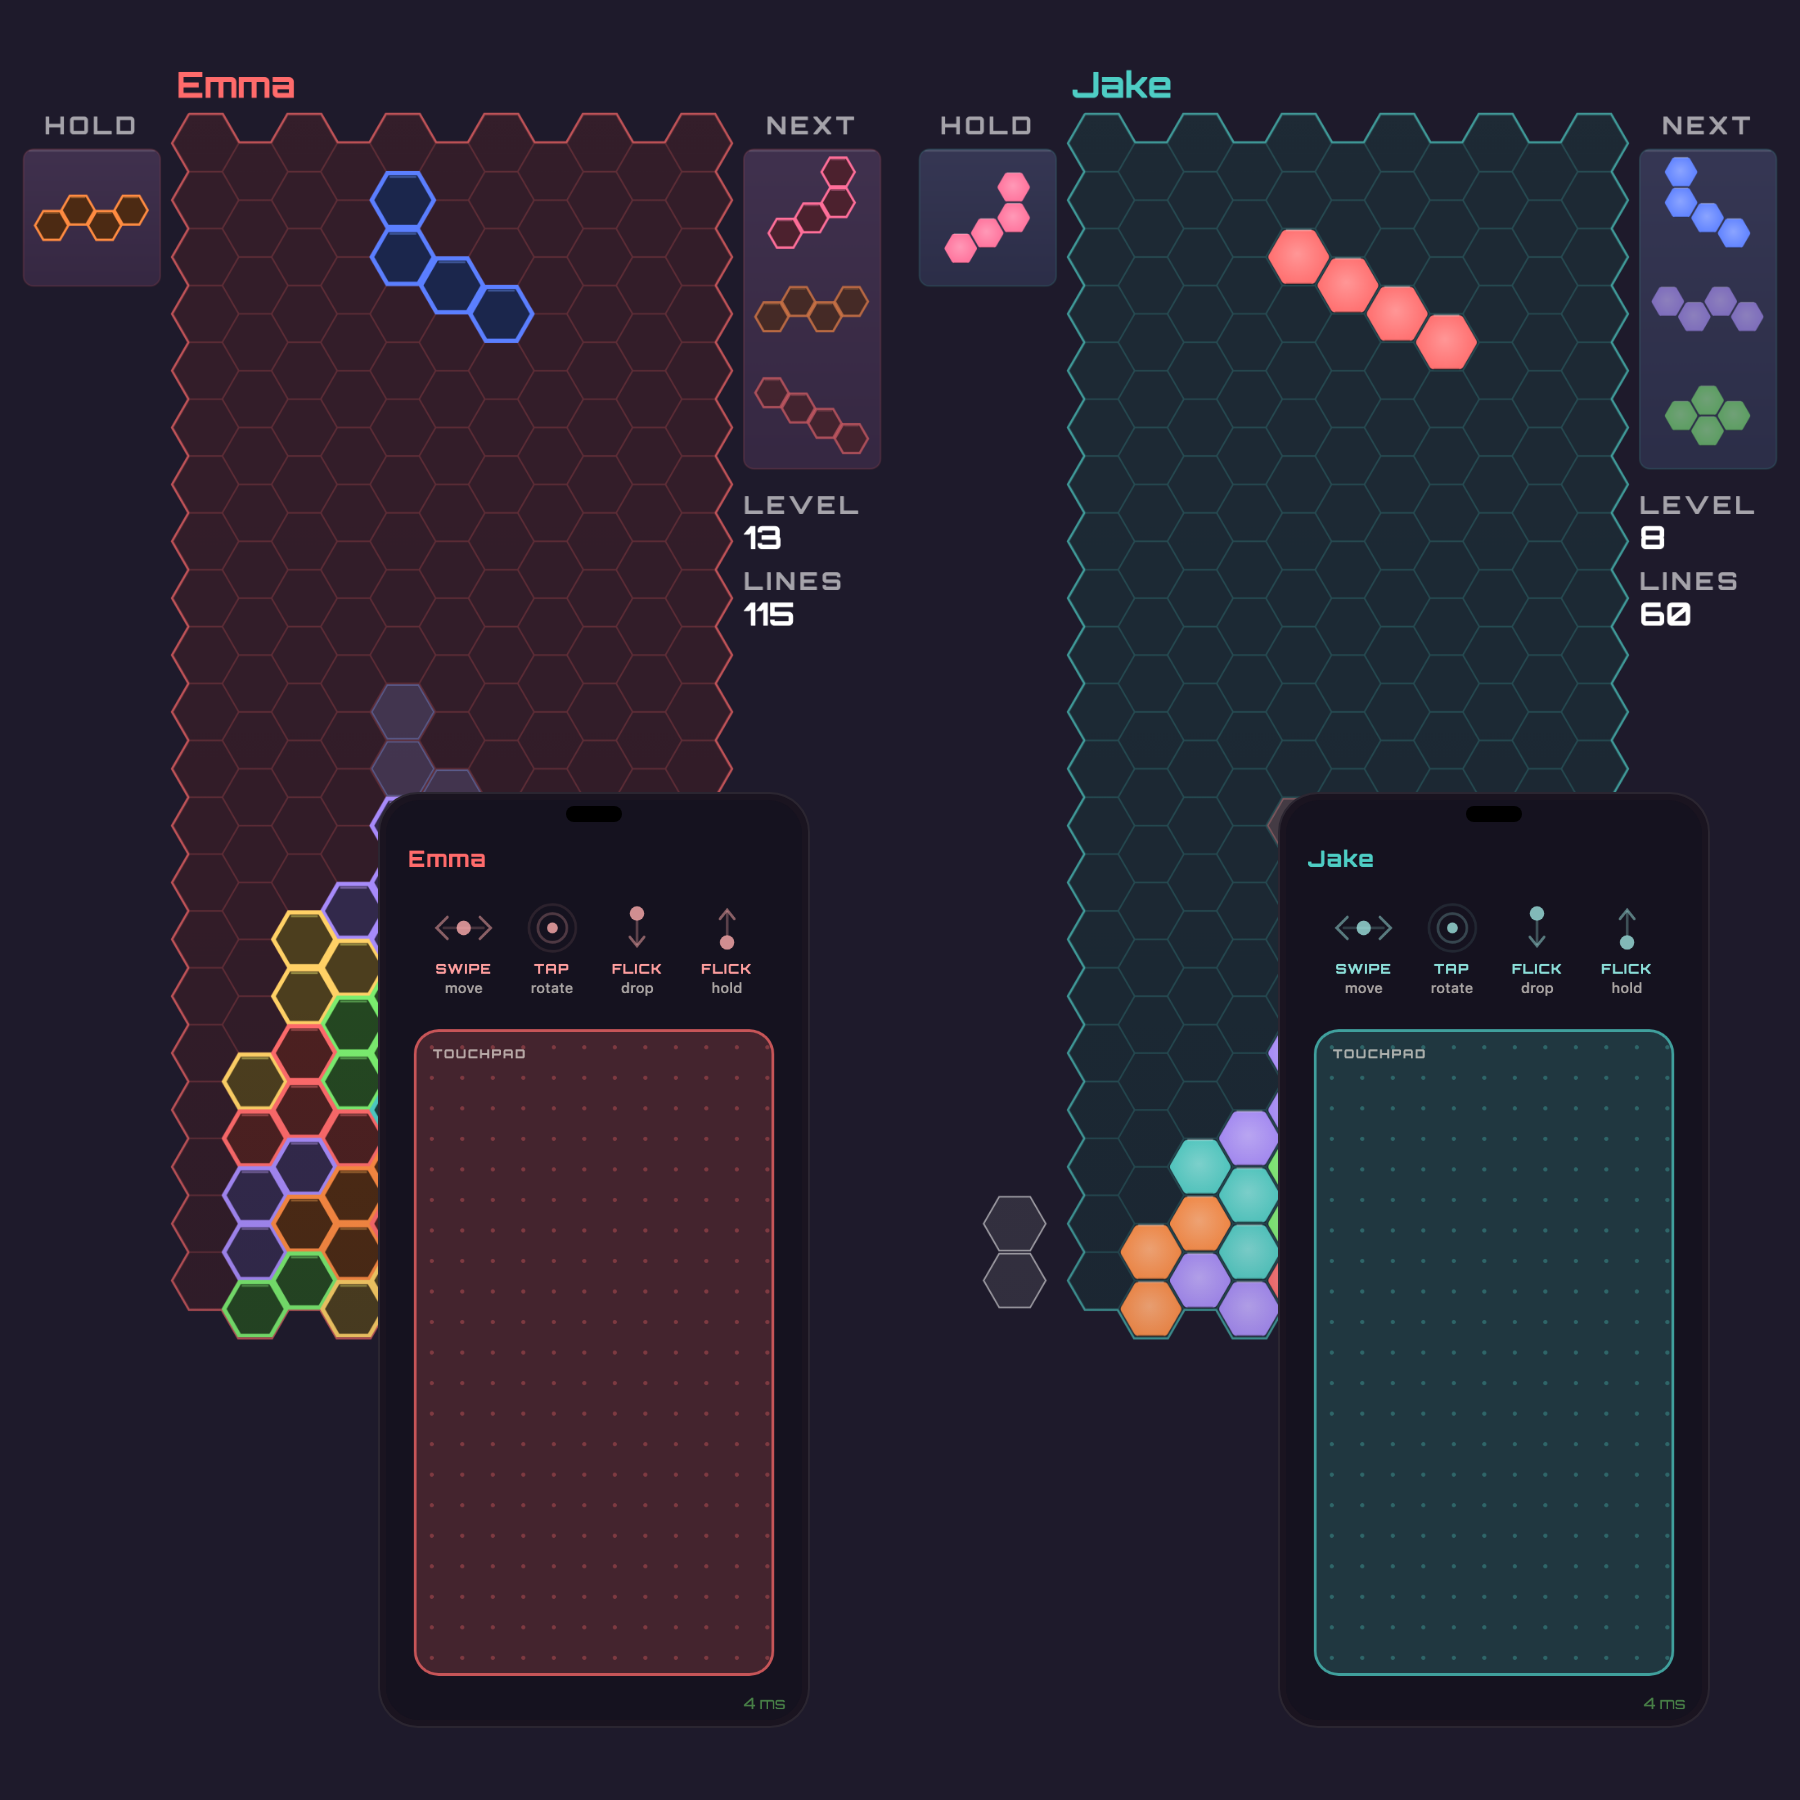
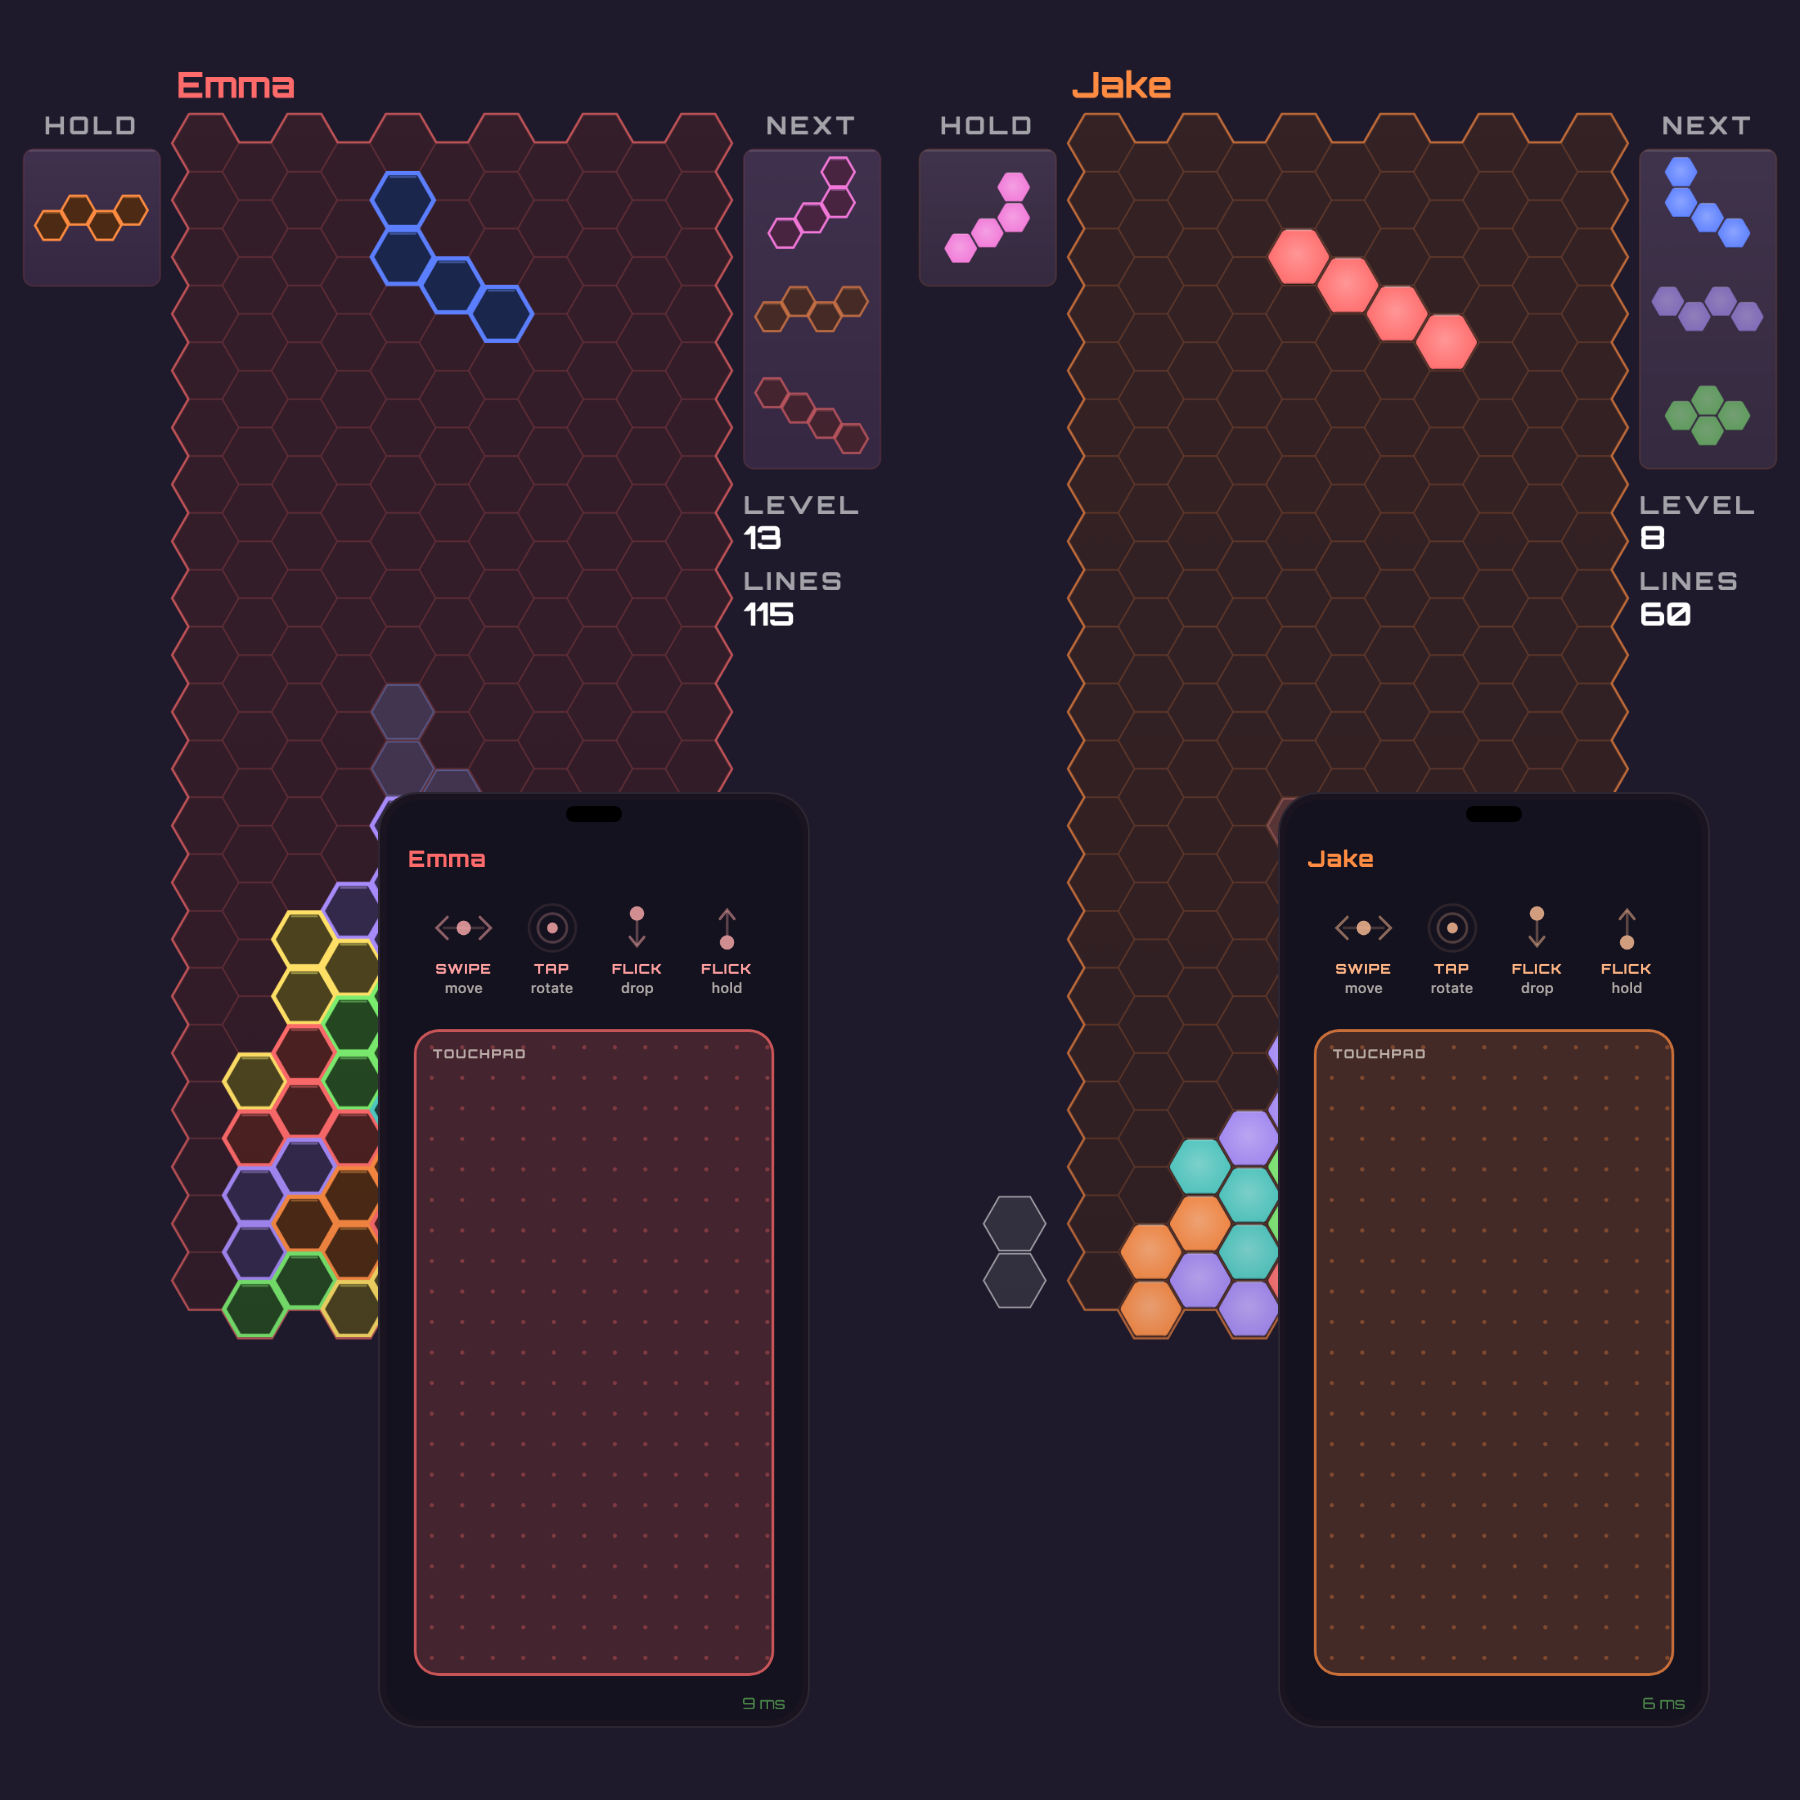
fix(palette): tune colors for distinctness + spectrum-order players
Pink (#FF6F9A) and Red (#FF6B6B) sat too close on the hue wheel; Honey
(#FFD166) and Tangerine (#FF8C42) were also crowding the warm band.
Shifts hues outward and reorders player slots to follow the visible
spectrum so small-room color assignments read more clearly.

- Pink slot 6 → Magenta #F178D8 (hue 312°, pastel, no Violet overlap)
- Honey slot 3 → #FFE066 (hue 48°, reads yellow instead of amber)
- PLAYER_COLORS decoupled from PARTY_PALETTE, ordered:
  red → tangerine → honey → mint → teal → indigo → violet → magenta
- Artwork regenerated with new palette

diff --git a/public/shared/theme.js b/public/shared/theme.js
@@ -10,10 +10,10 @@
 const PARTY_PALETTE = Object.freeze([
   '#FF6B6B', // 1 Red        ← UI accent (primary)
   '#4ECDC4', // 2 Teal
-  '#FFD166', // 3 Honey      ← UI accent (tertiary)
+  '#FFE066', // 3 Honey      ← UI accent (tertiary)
   '#A78BFA', // 4 Violet
   '#7BED6F', // 5 Mint
-  '#FF6F9A', // 6 Pink
+  '#F178D8', // 6 Magenta
   '#5B7FFF', // 7 Indigo
   '#FF8C42'  // 8 Tangerine  ← UI accent (secondary)
 ]);
@@ -28,7 +28,7 @@ const PIECE_COLORS = {
   4: PARTY_PALETTE[7],      // Z - tangerine
   5: PARTY_PALETTE[2],      // q - honey
   6: PARTY_PALETTE[1],      // p - teal
-  7: PARTY_PALETTE[5],      // L - pink
+  7: PARTY_PALETTE[5],      // L - magenta
   8: PARTY_PALETTE[6],      // J - indigo
   9: '#808080'              // garbage - neutral gray (intentionally off-palette)
 };
@@ -43,8 +43,18 @@ if (typeof ghostColor === 'function') {
   for (var _i = 1; _i <= 9; _i++) GHOST_COLORS[_i] = ghostColor(PIECE_COLORS[_i]);
 }
 
-// Player accent colors — direct 1:1 mapping with palette slots.
-const PLAYER_COLORS = Object.freeze(PARTY_PALETTE.slice());
+// Player accent colors — reordered from PARTY_PALETTE to follow the visible
+// spectrum across player slots: red, tangerine, honey, mint, teal, indigo, violet, magenta.
+const PLAYER_COLORS = Object.freeze([
+  PARTY_PALETTE[0], // Red
+  PARTY_PALETTE[7], // Tangerine
+  PARTY_PALETTE[2], // Honey
+  PARTY_PALETTE[4], // Mint
+  PARTY_PALETTE[1], // Teal
+  PARTY_PALETTE[6], // Indigo
+  PARTY_PALETTE[3], // Violet
+  PARTY_PALETTE[5], // Magenta
+]);
 
 const PLAYER_NAMES = ['Player 1', 'Player 2', 'Player 3', 'Player 4', 'Player 5', 'Player 6', 'Player 7', 'Player 8'];
 
@@ -83,7 +93,7 @@ const THEME = Object.freeze({
       primaryDark:  '#E55A5A',
       secondary:    '#FF8C42', // palette slot 8 Tangerine — UI secondary
       secondaryDark:'#E67A33',
-      tertiary:     '#FFD166', // palette slot 3 Honey — toast/low-priority accent
+      tertiary:     '#FFE066', // palette slot 3 Honey — toast/low-priority accent
     }),
     danger:  '#ff4444',
     ko: Object.freeze({
@@ -95,7 +105,7 @@ const THEME = Object.freeze({
     }),
     // Animation-specific named colors (palette-aligned)
     quad:    '#FF6B6B',        // palette slot 1 Red
-    triple:  '#FFD166',        // palette slot 3 Honey
+    triple:  '#FFE066',        // palette slot 3 Honey
   }),
 
   // ---- Opacities ----

diff --git a/public/shared/theme.css b/public/shared/theme.css
@@ -38,7 +38,7 @@
      the title reads red → honey → teal while buttons/links use their
      own palette slots. */
   --title-from: #FF6B6B;   /* Slot 1 Red */
-  --title-mid:  #FFD166;   /* Slot 3 Honey */
+  --title-mid:  #FFE066;   /* Slot 3 Honey */
   --title-to:   #4ECDC4;   /* Slot 2 Teal */
 
   /* Text — warm cream */
@@ -62,7 +62,7 @@
 
   /* Ping indicators */
   --ping-good: #7BED6F;                   /* mint */
-  --ping-ok: #FFD166;                     /* honey */
+  --ping-ok: #FFE066;                     /* honey */
   --ping-bad: #e74856;
 
   /* Overlay */

diff --git a/public/gallery-common.js b/public/gallery-common.js
@@ -6,7 +6,7 @@
 // =====================================================================
 
 var Gallery = (function() {
-  var PLAYER_COLOR_NAMES = ['red', 'teal', 'honey', 'violet', 'mint', 'pink', 'indigo', 'tangerine'];
+  var PLAYER_COLOR_NAMES = ['red', 'tangerine', 'honey', 'mint', 'teal', 'indigo', 'violet', 'magenta'];
 
   var DISPLAY_AR_DIMS = {
     '16x9': { w: 1920, h: 1080 },
